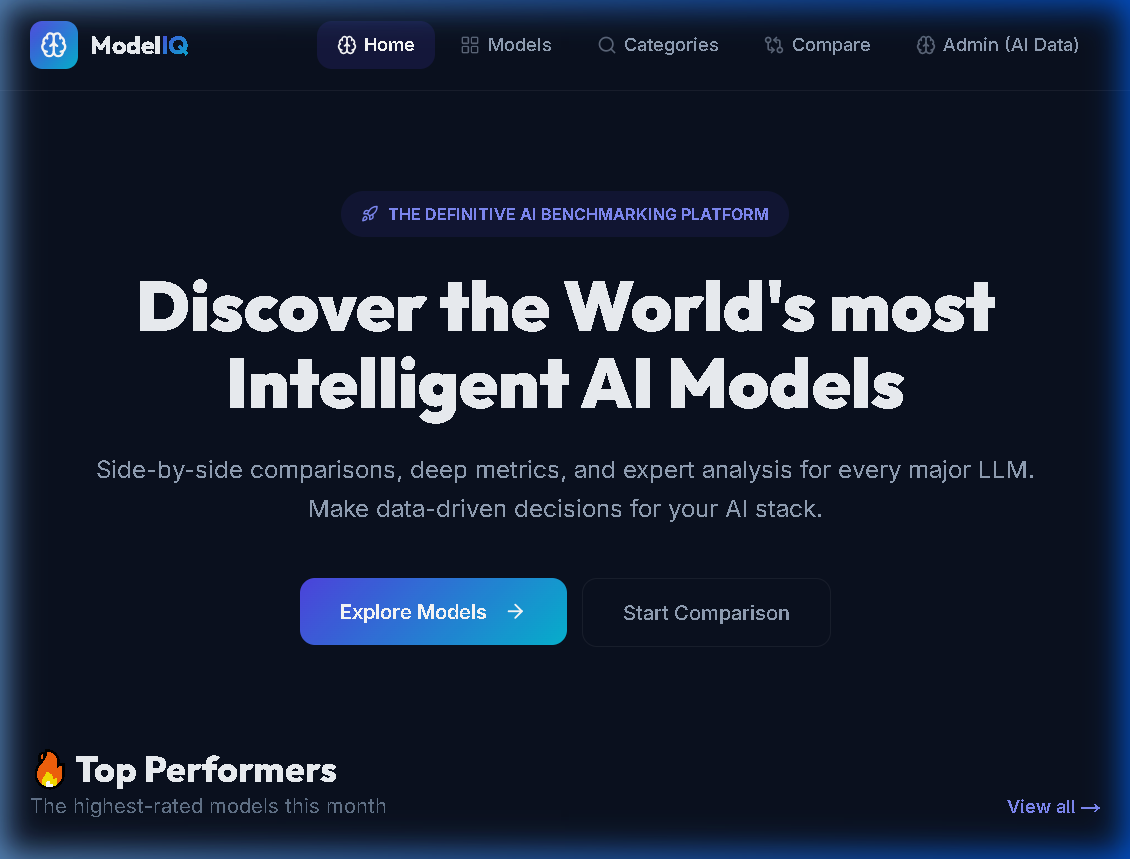
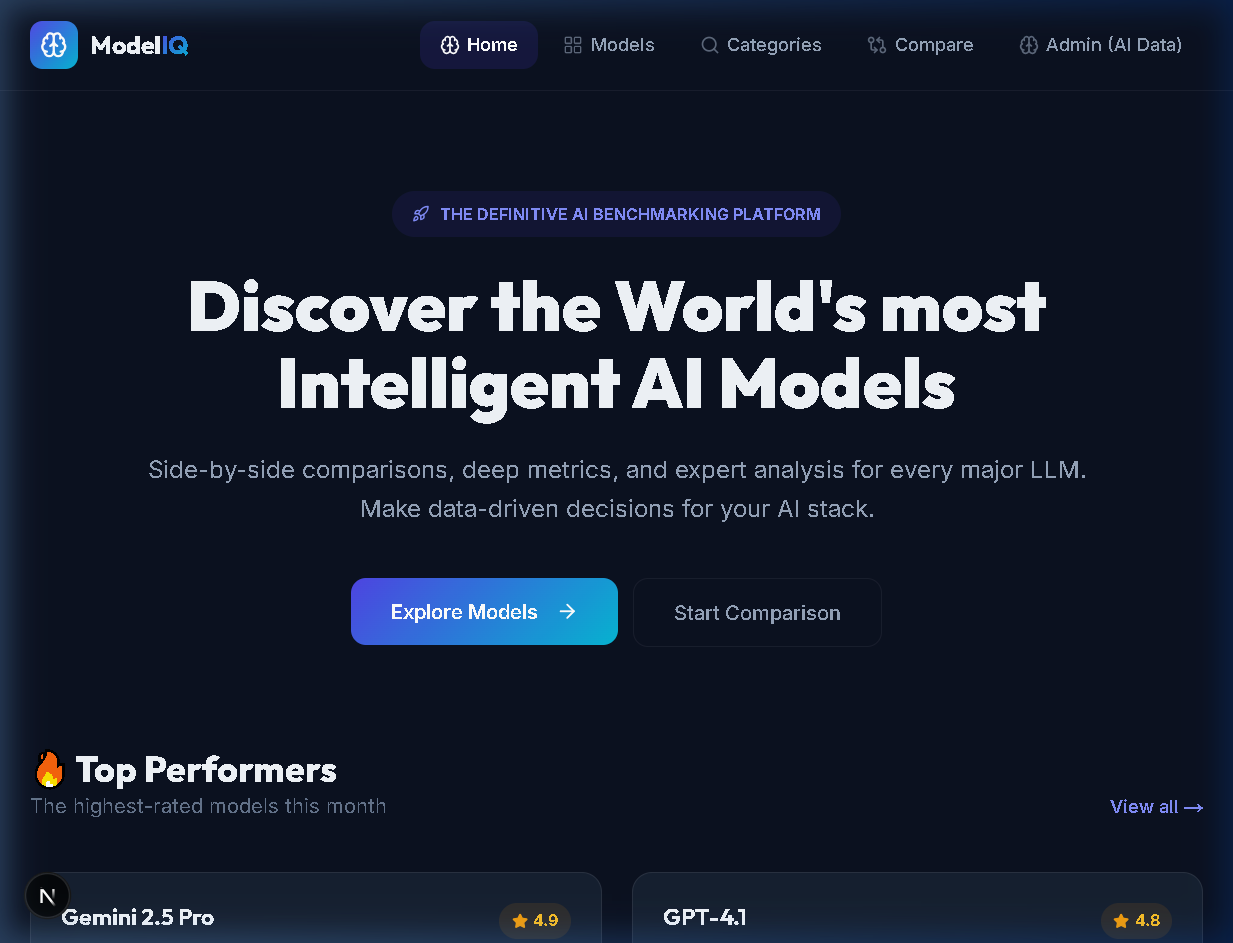
Professionalize project: real screenshots, updated attribution, and documentation

diff --git a/src/app/admin/page.tsx b/src/app/admin/page.tsx
@@ -1,7 +1,7 @@
 'use client';
 
 import { useState, useEffect } from 'react';
-import { Save, CheckCircle, Bot, Trash2, ShieldCheck, Plus, X } from 'lucide-react';
+import { Save, CheckCircle, Zap, Trash2, ShieldCheck, Plus, X } from 'lucide-react';
 import { modelService } from '@/services/model-service';
 import { Category, AIModel, ModelFeature } from '@/types';
 
@@ -211,7 +211,7 @@ export default function AdminPage() {
           <h1 style={{ fontSize: '2rem', fontWeight: 800, fontFamily: "'Outfit', sans-serif" }}>
             Admin Panel
           </h1>
-          <p style={{ color: 'var(--color-text-secondary)' }}>Add new AI models using AI assistance</p>
+          <p style={{ color: 'var(--color-text-secondary)' }}>Advanced Model Management Interface</p>
         </div>
       </div>
 
@@ -254,7 +254,7 @@ export default function AdminPage() {
             {loading ? (
               <>⏳ Generating...</>
             ) : (
-              <><Bot size={18} /> Auto-Fill Data</>
+              <><Zap size={18} /> Prefill Metadata</>
             )}
           </button>
         </div>

diff --git a/src/components/ui/Footer.tsx b/src/components/ui/Footer.tsx
@@ -132,7 +132,7 @@ export default function Footer() {
           gap: '12px',
         }}>
           <p style={{ color: 'var(--color-text-muted)', fontSize: '0.8rem' }}>
-            © 2026 ModelIQ. All rights reserved.
+            © 2026 ModelIQ. Designed & Developed by Ahmed Maamoun.
           </p>
           <p style={{ color: 'var(--color-text-muted)', fontSize: '0.8rem' }}>
             Built with ❤️ for the AI community

diff --git a/src/components/ui/Navbar.tsx b/src/components/ui/Navbar.tsx
@@ -10,7 +10,7 @@ const navLinks = [
   { href: '/models', label: 'Models', icon: LayoutGrid },
   { href: '/categories', label: 'Categories', icon: Search },
   { href: '/compare', label: 'Compare', icon: GitCompareArrows },
-  { href: '/admin', label: 'Admin (AI Data)', icon: Brain }, // New link
+  { href: '/admin', label: 'Admin Dashboard', icon: Brain }, // New link
 ];
 
 export default function Navbar() {

diff --git a/README.md b/README.md
@@ -1,28 +1,92 @@
-# ModelIQ - The Definitive Benchmarking Platform
+# 🧠 ModelIQ — Advanced LLM Intelligence & Benchmarking Platform
 
-## Overview
+![ModelIQ Banner](./public/banner.png)
 
-**ModelIQ** is a premium, state-of-the-art intelligence platform designed to help developers and businesses discover and compare the world's most advanced software architectures. In a rapidly evolving landscape, ModelIQ provides the clarity needed to choose the right technology based on cost, performance, and specific use cases.
+**ModelIQ** is a high-performance, premium intelligence platform engineered to provide clarity in the rapidly evolving landscape of Artificial Intelligence. Built for developers, researchers, and enterprise decision-makers, ModelIQ offers a centralized hub to explore, compare, and analyze the world's most sophisticated Large Language Models (LLMs) through empirical data and deep metrics.
 
-[**Live Demo**](https://model-iq.vercel.app)
+[**🌐 Explore the Live Platform**](https://ai11-omega.vercel.app)
 
 ---
 
-## Key Features
+## ✨ Core Value Propositions
 
-- **Side-by-Side Comparison**: Deeply analyze metrics for multiple platforms simultaneously.
-- - **Performance Metrics**: Real-world scores for Reasoning, Coding, Speed, and Latency.
-  - - **Smart Filtering**: Filter by Provider, Pricing, and Modality.
-    - - **Cost Analysis**: High-precision pricing data.
-      - - **Premium UX**: A stunning, dark-themed interface built with a focus on data visualization.
-       
-        - ---
+- **Data-Driven Comparison:** Perform exhaustive side-by-side analysis of reasoning, coding, and latency metrics.
+- **Economic Transparency:** High-precision pricing data standardized per 1 million tokens for both input and output.
+- **Architectural Insights:** Deep dives into context window utilization, modality support (Text, Image, Video), and API availability.
+- **Premium User Experience:** A state-of-the-art, dark-themed interface built with a focus on high-density data visualization and smooth micro-interactions.
 
-        ## Tech Stack
+---
 
-        - **Frontend**: Next.js 14, Tailwind CSS, Framer Motion.
-        - - **Deployment**: Vercel.
-         
-          - ---
-          Created by Ahmed Maamoun
-          
+## 📸 Platform Interface
+
+<div align="center">
+  <table border="0">
+    <tr>
+      <td align="center"><b>Main Explorer</b><br/><img src="./public/screenshots/models_grid.png" width="400"/></td>
+      <td align="center"><b>Search & Discovery</b><br/><img src="./public/screenshots/search_interface.png" width="400"/></td>
+    </tr>
+    <tr>
+      <td align="center"><b>Detailed Metrics</b><br/><img src="./public/screenshots/model_detail.png" width="400"/></td>
+      <td align="center"><b>Comparison Engine</b><br/><img src="./public/screenshots/comparison_view.png" width="400"/></td>
+    </tr>
+    <tr>
+      <td align="center"><b>Admin Interface</b><br/><img src="./public/screenshots/admin_dashboard.png" width="400"/></td>
+      <td align="center"><b>Mobile Experience</b><br/><img src="./public/screenshots/mobile_responsive.png" width="400"/></td>
+    </tr>
+  </table>
+</div>
+
+---
+
+## 🛠 Engineering Stack
+
+| Layer | Technology |
+| :--- | :--- |
+| **Frontend** | [Next.js 15](https://nextjs.org/) (App Router, Server Components) |
+| **Styling** | [Tailwind CSS 4.0](https://tailwindcss.com/) + [Lucide React](https://lucide.dev/) |
+| **Architecture** | Atomic Component Design, Glassmorphism UX |
+| **Database** | [Supabase](https://supabase.com/) (PostgreSQL) |
+| **Deployment** | [Vercel](https://vercel.com/) |
+
+---
+
+## 🚀 Deployment & Local Setup
+
+### 1. Repository Initialization
+```bash
+git clone https://github.com/Maamoun0/ModelIQ.git
+cd ModelIQ
+```
+
+### 2. Dependency Management
+```bash
+npm install
+```
+
+### 3. Environment Configuration
+Create a `.env.local` file with your secure credentials:
+```env
+NEXT_PUBLIC_SUPABASE_URL=your_supabase_endpoint
+NEXT_PUBLIC_SUPABASE_ANON_KEY=your_public_anon_key
+```
+
+### 4. Database Setup
+Execute the SQL schemas found in the `supabase/` directory within your Supabase SQL Editor:
+1. `schema.sql` — Initializes table structures and relationships.
+2. `seed.sql` — Populates the platform with initial high-performance model data.
+
+### 5. Launch Development Server
+```bash
+npm run dev
+```
+Navigate to `http://localhost:3000` to access the localized instance.
+
+---
+
+## 📄 License
+
+This software is distributed under the MIT License. See `LICENSE` for more information.
+
+---
+
+**Designed & Engineered with Precision by [Ahmed Maamoun](https://github.com/Maamoun0)**

diff --git a/DOCS/SUPABASE_SETUP_GUIDE.md b/DOCS/SUPABASE_SETUP_GUIDE.md
@@ -1,47 +1,47 @@
-# 🚀 دليل إعداد Supabase لمشروع "مامون"
+# 🚀 Supabase Setup Guide for ModelIQ
 
-هذا هو الدليل النهائي لربط الموقع الذي قمت بإنشائه بقاعدة بيانات Supabase الحقيقية. اتبع هذه الخطوات البسيطة:
-
----
-
-## الخطوة 1: جلب مفاتيح الاتصال
-ادخل على لوحة تحكم [Supabase Dashboard](https://supabase.com/dashboard) بجهازك:
-1. اذهب إلى مشروعك الذي أسميته **"مامون"**.
-2. في القائمة الجانبية (اليسرى)، انقر على أيقونة **Settings (الترس)**.
-3. اختر قسم **API**.
-4. ابحث عن:
-   *   `Project URL`: سيكون مثل `https://xyz.supabase.co`
-   *   `anon (public)` key: سيكون كودًا طويلاً.
+This is the ultimate guide to connecting your website to a real Supabase database. Follow these simple steps:
 
 ---
 
-## الخطوة 2: تحديث الموقع محلياً
-افتح ملف `.env.local` في محرر الكود لديك، واملأ البيانات كالتالي:
+## Step 1: Retrieve Connection Keys
+Log in to the [Supabase Dashboard](https://supabase.com/dashboard):
+1. Go to your project named **"ModelIQ"**.
+2. In the sidebar (left), click the **Settings (gear)** icon.
+3. Select the **API** section.
+4. Find:
+   *   `Project URL`: It will look like `https://xyz.supabase.co`
+   *   `anon (public)` key: This will be a long string of characters.
+
+---
+
+## Step 2: Update Local Configuration
+Open the `.env.local` file in your code editor and fill in the details as follows:
 
 ```env
-NEXT_PUBLIC_SUPABASE_URL=رابط_المشروع_هنا
-NEXT_PUBLIC_SUPABASE_ANON_KEY=المفتاح_الطويل_هنا
+NEXT_PUBLIC_SUPABASE_URL=your_project_url_here
+NEXT_PUBLIC_SUPABASE_ANON_KEY=your_long_anon_key_here
 ```
 
 ---
 
-## الخطوة 3: إنشاء الجداول والتصنيفات (SQL)
-في لوحة تحكم Supabase:
-1. انقر على أيقونة **SQL Editor** (الموجودة في الشريط الجانبي الأيسر).
-2. انقر على **New query**.
-3. قم بنسخ الكود الموجود في ملف [schema.sql](file:///c:/Users/Maamoun/Downloads/antygravity/ai11/supabase/schema.sql) بالكامل والصقه هناك، ثم اضغط على زر **Run**.
-4. بعد النجاح، أنشئ **New query** أخرى.
-5. قم بنسخ الكود الموجود في ملف [seed.sql](file:///c:/Users/Maamoun/Downloads/antygravity/ai11/supabase/seed.sql) بالكامل (هذا سيضيف الموديلات والتصنيفات) والصقه، ثم اضغط على زر **Run**.
+## Step 3: Create Tables and Data (SQL)
+In the Supabase dashboard:
+1. Click the **SQL Editor** icon (located in the left sidebar).
+2. Click **New query**.
+3. Copy the entire code from the [schema.sql](../supabase/schema.sql) file and paste it there, then click the **Run** button.
+4. After success, create another **New query**.
+5. Copy the entire code from the [seed.sql](../supabase/seed.sql) file (this will add the models and categories), paste it, and click the **Run** button.
 
 ---
 
-## الخطوة 4: التحقق من النتيجة
-الآن، ارجع إلى متصفحك وافتح الموقع (`http://localhost:3000`). ستجد أن البيانات تظهر الآن مباشرة من قاعدة البيانات بدلاً من الملفات المحلية!
+## Step 4: Verify the Results
+Now, go back to your browser and open the site (`http://localhost:3000`). You should see the data being pulled directly from the database instead of local files!
 
 ---
 
-### 💡 نصيحة للمستقبل:
-- يمكنك إضافة موديلات جديدة من صفحة **Admin** داخل الموقع مباشرة، وستحفظ فوراً في Supabase.
-- لا تشارك ملف `.env.local` مع أي شخص، لأنه يحتوي على مفاتيح الوصول الخاصة بك.
+### 💡 Pro Tips:
+- You can add new models directly from the **Admin** page within the site, and they will be saved immediately to Supabase.
+- Never share your `.env.local` file with anyone, as it contains your access keys.
 
-**هل قمت بهذه الخطوات؟ أخبرني إذا واجهت أي مشكلة وسأقوم بحلها فوراً!**
+**Have you completed these steps? Let me know if you encounter any issues and I will help you immediately!**